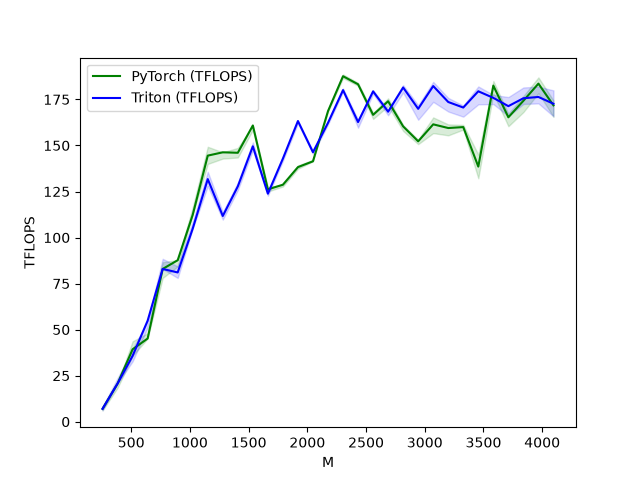
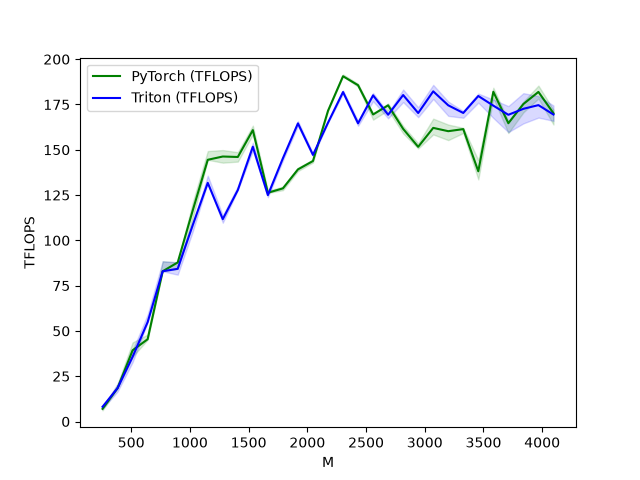
we are so back (matmul kernel still slower tho)

diff --git a/triton_testing/results.html b/triton_testing/results.html
@@ -1,3 +1,3 @@
 <html><body>
-<image src="matmul-performance.png"/>
+<image src="memory-matmul-torch-triton.png"/>
 </body></html>

diff --git a/triton_testing/matmul_from_memory.py b/triton_testing/matmul_from_memory.py
@@ -1,48 +1,87 @@
 import torch
-import os
-os.environ["TRITON_INTERPRET"] = "1"
 import triton
 import triton.language as tl
 
 
-
-DEVICE=torch.device("cuda:0" if torch.cuda.is_available() else "cpu")
+DEVICE = torch.device("cuda:0" if torch.cuda.is_available() else "cpu")
 
 configs = [
-    triton.Config({"BLOCK_SIZE_M": 128, "BLOCK_SIZE_N": 128, "BLOCK_SIZE_K": 64, "GROUP_SIZE": 2}, num_stages=3)
+    triton.Config(
+        {"BLOCK_SIZE_M": 128, "BLOCK_SIZE_N": 256, "BLOCK_SIZE_K": 64, "GROUP_SIZE": 8},
+        num_stages=3,
+        num_warps=8,
+    ),
+    triton.Config(
+        {"BLOCK_SIZE_M": 64, "BLOCK_SIZE_N": 256, "BLOCK_SIZE_K": 32, "GROUP_SIZE": 8},
+        num_stages=4,
+        num_warps=4,
+    ),
+    triton.Config(
+        {"BLOCK_SIZE_M": 128, "BLOCK_SIZE_N": 128, "BLOCK_SIZE_K": 32, "GROUP_SIZE": 8},
+        num_stages=4,
+        num_warps=4,
+    ),
+    triton.Config(
+        {"BLOCK_SIZE_M": 128, "BLOCK_SIZE_N": 64, "BLOCK_SIZE_K": 32, "GROUP_SIZE": 8},
+        num_stages=4,
+        num_warps=4,
+    ),
+    triton.Config(
+        {"BLOCK_SIZE_M": 64, "BLOCK_SIZE_N": 128, "BLOCK_SIZE_K": 32, "GROUP_SIZE": 8},
+        num_stages=4,
+        num_warps=4,
+    ),
+    triton.Config(
+        {"BLOCK_SIZE_M": 128, "BLOCK_SIZE_N": 32, "BLOCK_SIZE_K": 32, "GROUP_SIZE": 8},
+        num_stages=4,
+        num_warps=4,
+    ),
+    triton.Config(
+        {"BLOCK_SIZE_M": 64, "BLOCK_SIZE_N": 32, "BLOCK_SIZE_K": 32, "GROUP_SIZE": 8},
+        num_stages=5,
+        num_warps=2,
+    ),
+    triton.Config(
+        {"BLOCK_SIZE_M": 32, "BLOCK_SIZE_N": 64, "BLOCK_SIZE_K": 32, "GROUP_SIZE": 8},
+        num_stages=5,
+        num_warps=2,
+    ),
 ]
+
 
 @triton.autotune(configs=configs, key={"M", "K", "N"})
 @triton.jit
-def matmul_kernel(a_ptr,
-                  b_ptr,
-                  c_ptr,
-                  M: int,
-                  K: int,
-                  N: int,
-                  a_stride_M: int,
-                  a_stride_K: int,
-                  b_stride_K: int,
-                  b_stride_N: int,
-                  c_stride_M: int,
-                  c_stride_N: int,
-                  BLOCK_SIZE_M: tl.constexpr,
-                  BLOCK_SIZE_N: tl.constexpr,
-                  BLOCK_SIZE_K: tl.constexpr,
-                  GROUP_SIZE: tl.constexpr) -> None:
-    """                   B       N
+def matmul_kernel(
+    a_ptr,
+    b_ptr,
+    c_ptr,
+    M: int,
+    K: int,
+    N: int,
+    a_stride_M: int,
+    a_stride_K: int,
+    b_stride_K: int,
+    b_stride_N: int,
+    c_stride_M: int,
+    c_stride_N: int,
+    BLOCK_SIZE_M: tl.constexpr,
+    BLOCK_SIZE_N: tl.constexpr,
+    BLOCK_SIZE_K: tl.constexpr,
+    GROUP_SIZE: tl.constexpr,
+) -> None:
+    """B       N
                           [ 0  1 |  2  3 |  4 ]
                           [ 5  6 |  7  8 |  9 ]
                         K [10 11 | 12 13 | 14 ]
                           [15 16 | 17 18 | 19 ]
                           [20 21 | 22 23 | 24 ]
                           [25 26 | 27 28 | 29 ]
-      A        K          C                    
+      A        K          C
       [ 0  1  2  3  4  5 ][ 0  1 | 4   5 | 8  9 ]
       [ 6  7  8  9 10 11 ][ 2  3 | 6   7 | 10 11]
     M ------------------- ----------------------
       [12 13 14 15 16 17 ][12 13 | 16 17 | 20 21]
-                          
+
 
     what are our PIDs actaully doing?
 
@@ -100,7 +139,7 @@ def matmul_kernel(a_ptr,
 
     it was like group_size_adj = min(something - something else, something).
 
-    whatever. 
+    whatever.
 
     """
     pid = tl.program_id(axis=0)
@@ -110,24 +149,32 @@ def matmul_kernel(a_ptr,
     blocks_K = tl.cdiv(K, BLOCK_SIZE_K)
     blocks_N = tl.cdiv(N, BLOCK_SIZE_N)
 
-    groups_M = tl.cdiv(blocks_M, GROUP_SIZE)
-    groups_N = tl.cdiv(blocks_N, GROUP_SIZE)
-
-    # print(f"Groups M: {groups_M}, Groups N: {groups_N}") 
+    # print(f"Groups M: {groups_M}, Groups N: {groups_N}")
     # we must add a full block for matmul but don't necessarily need a full group (like 5x5 -> don't need 6x6 blocks)
 
     # we need to find the group start for the given PID
     # to do this, we need to find the size of a group and the group_id
-    group_id = pid // GROUP_SIZE ** 2
-    start_of_group = group_id * GROUP_SIZE ** 2
 
-    
-    pid_m = ((pid - start_of_group) // GROUP_SIZE + GROUP_SIZE * (group_id // groups_N))
+    # this is not correct. we can't just divide by GROUP_SIZE ** 2 because the size of groups is not fixed
+    # [ 0  1 | 2  3 | 4 ] -> [ 0  1 | 4  5 | 8 ]
+    # [ 5  6 | 7  8 | 9 ]    [ 2  3 | 6  7 | 9 ]
+    # ------- ------ ----    ------- ------ ---
+    # [10 11 | 12 13| 14]    [10 11 | 12 13| 14]
+    pids_per_group_row = GROUP_SIZE * blocks_N
+
+    group_row = pid // pids_per_group_row
+    group_row_start = group_row * pids_per_group_row
+    group_size_adj_m = min(GROUP_SIZE, blocks_M - group_row * GROUP_SIZE)
+    group_col = (pid - group_row_start) // (GROUP_SIZE * group_size_adj_m)
+
+    group_start = group_row_start + group_col * GROUP_SIZE * group_size_adj_m
+
+    group_size_adj_n = min(GROUP_SIZE, blocks_N - GROUP_SIZE * group_col)
+    pid_m = group_row * GROUP_SIZE + (pid - group_start) // group_size_adj_n
     # subtract start of group to get id relative to group
     # mod by group size to get the n component and then add back group M
-    pid_n = ((pid - start_of_group) % GROUP_SIZE + GROUP_SIZE * (group_id % groups_N))
+    pid_n = group_col * GROUP_SIZE + (pid - group_start) % group_size_adj_n
 
-    print(f"pid {pid} -> ({pid_m}, {pid_n})")
     # seems to work fine on 512x512
 
     # great. now we just need to do the indices and masking and then the kernel
@@ -141,7 +188,7 @@ def matmul_kernel(a_ptr,
     b_offsets = offsets_K[:, None] * b_stride_K + offsets_N[None, :] * b_stride_N
 
     accumulator = tl.zeros((BLOCK_SIZE_M, BLOCK_SIZE_N), dtype=tl.float32)
-    for k in tl.range(blocks_K):
+    for k in range(blocks_K):
         max_k_block = K - k * BLOCK_SIZE_K
 
         k_mask = offsets_K < max_k_block
@@ -150,8 +197,6 @@ def matmul_kernel(a_ptr,
         # k_mask is (K), so we need to index [None, :] -> (1, K)
         a_chunk = tl.load(a_ptr + a_offsets, mask=k_mask[None, :], other=0.0)
         b_chunk = tl.load(b_ptr + b_offsets, mask=k_mask[:, None], other=0.0)
-
-        
 
         accumulator = tl.dot(a_chunk, b_chunk, acc=accumulator)
 
@@ -162,15 +207,9 @@ def matmul_kernel(a_ptr,
         a_offsets += BLOCK_SIZE_K * a_stride_K
         b_offsets += BLOCK_SIZE_K * b_stride_K
 
-    
     c_offsets = offsets_M[:, None] * c_stride_M + offsets_N[None, :] * c_stride_N
     c_mask = (offsets_M[:, None] < M) & (offsets_N[None, :] < N)
-    print(c_mask)
     tl.store(c_ptr + c_offsets, accumulator.to(tl.float16), mask=c_mask)
-
-
-
-
 
 
 def matmul(a: torch.Tensor, b: torch.Tensor) -> torch.Tensor:
@@ -180,23 +219,35 @@ def matmul(a: torch.Tensor, b: torch.Tensor) -> torch.Tensor:
     a = a.to(torch.float16)
     b = b.to(torch.float16)
 
-    c = torch.empty(M, N, device=a.device, dtype=torch.float16)
+    c = torch.empty(M, N, device=DEVICE, dtype=torch.float16)
 
-    grid = lambda meta: (triton.cdiv(M, meta["BLOCK_SIZE_M"]) * triton.cdiv(N, meta["BLOCK_SIZE_N"]),)
+    grid = lambda meta: (
+        triton.cdiv(M, meta["BLOCK_SIZE_M"]) * triton.cdiv(N, meta["BLOCK_SIZE_N"]),
+    )
 
     matmul_kernel[grid](
-        a, b, c,
-        M, K, N,
-        a.stride(0), a.stride(1),
-        b.stride(0), b.stride(1),
-        c.stride(0), c.stride(1),
+        a,
+        b,
+        c,
+        M,
+        K,
+        N,
+        a.stride(0),
+        a.stride(1),
+        b.stride(0),
+        b.stride(1),
+        c.stride(0),
+        c.stride(1),
     )
 
     return c
 
-def test_matmul(M: int, K: int, N: int, atol=1e-2, rtol=1e-1, device=DEVICE, dtype=torch.float16) -> None:
+
+def test_matmul(
+    M: int, K: int, N: int, atol=1e-2, rtol=1e-1, device=DEVICE, dtype=torch.float16
+) -> None:
     a = torch.randn(M, K, device=device, dtype=dtype)
-    b = torch.randn(K, N, device=device, dtype=dtype) / (K ** 0.5)
+    b = torch.randn(K, N, device=device, dtype=dtype) / (K**0.5)
 
     c_torch = torch.matmul(a, b)
     c_triton = matmul(a, b)
@@ -206,6 +257,44 @@ def test_matmul(M: int, K: int, N: int, atol=1e-2, rtol=1e-1, device=DEVICE, dty
     torch.testing.assert_close(c_torch, c_triton, atol=atol, rtol=rtol)
     print("PASSED")
 
+
 if __name__ == "__main__":
     print("using device", DEVICE)
-    test_matmul(513, 513, 513)
+    test_matmul(1024, 1024, 1024)
+
+
+@triton.testing.perf_report(
+    triton.testing.Benchmark(
+        x_names=["M", "N", "K"],
+        x_vals=[128 * i for i in range(2, 33)],
+        line_arg="provider",
+        line_vals=["torch", "triton"],
+        line_names=["Torch", "Triton"],
+        args={},
+        xlabel="size",
+        ylabel="TFLOPS",
+        styles=[("green", "-"), ("blue", "-")],
+        plot_name="memory-matmul-torch-triton",
+    )
+)
+def benchmark(M: int, N: int, K: int, provider: str) -> tuple[float, ...]:
+    a = torch.randn(M, K, device=DEVICE, dtype=torch.float16)
+    b = torch.randn(K, N, device=DEVICE, dtype=torch.float16) / (K**0.5)
+
+    quantiles = [0.5, 0.2, 0.8]
+
+    if provider == "torch":
+        ms, min_ms, max_ms = triton.testing.do_bench(
+            lambda: torch.matmul(a, b), quantiles=quantiles
+        )
+    if provider == "triton":
+        ms, min_ms, max_ms = triton.testing.do_bench(
+            lambda: matmul(a, b), quantiles=quantiles
+        )
+
+    tflops = lambda ms: 3 * M * N * K / 1e12 / (ms * 1e-3)
+
+    return tflops(ms), tflops(min_ms), tflops(max_ms)
+
+
+benchmark.run(show_plots=False, print_data=True, save_path=".")

diff --git a/triton_testing/matmul_reference.py b/triton_testing/matmul_reference.py
@@ -364,4 +364,4 @@ if __name__ == "__main__":
     # Only run benchmark if explicitly requested
     import sys
     if len(sys.argv) > 1 and sys.argv[1] == "--benchmark":
-        benchmark.run(save_path='.', print_data=False)
+        benchmark.run(save_path='.', print_data=True)
